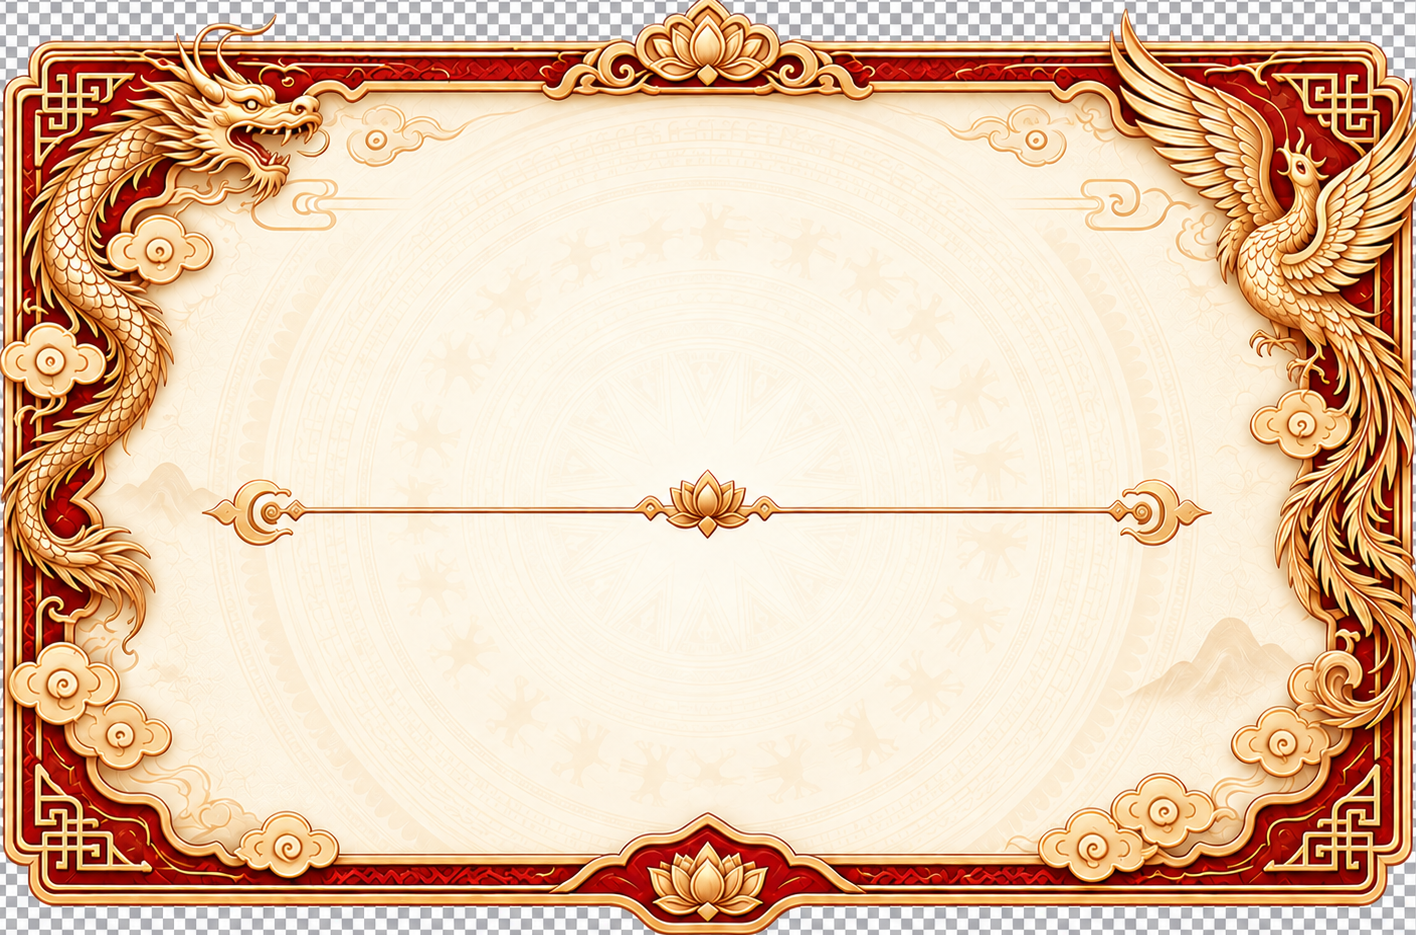
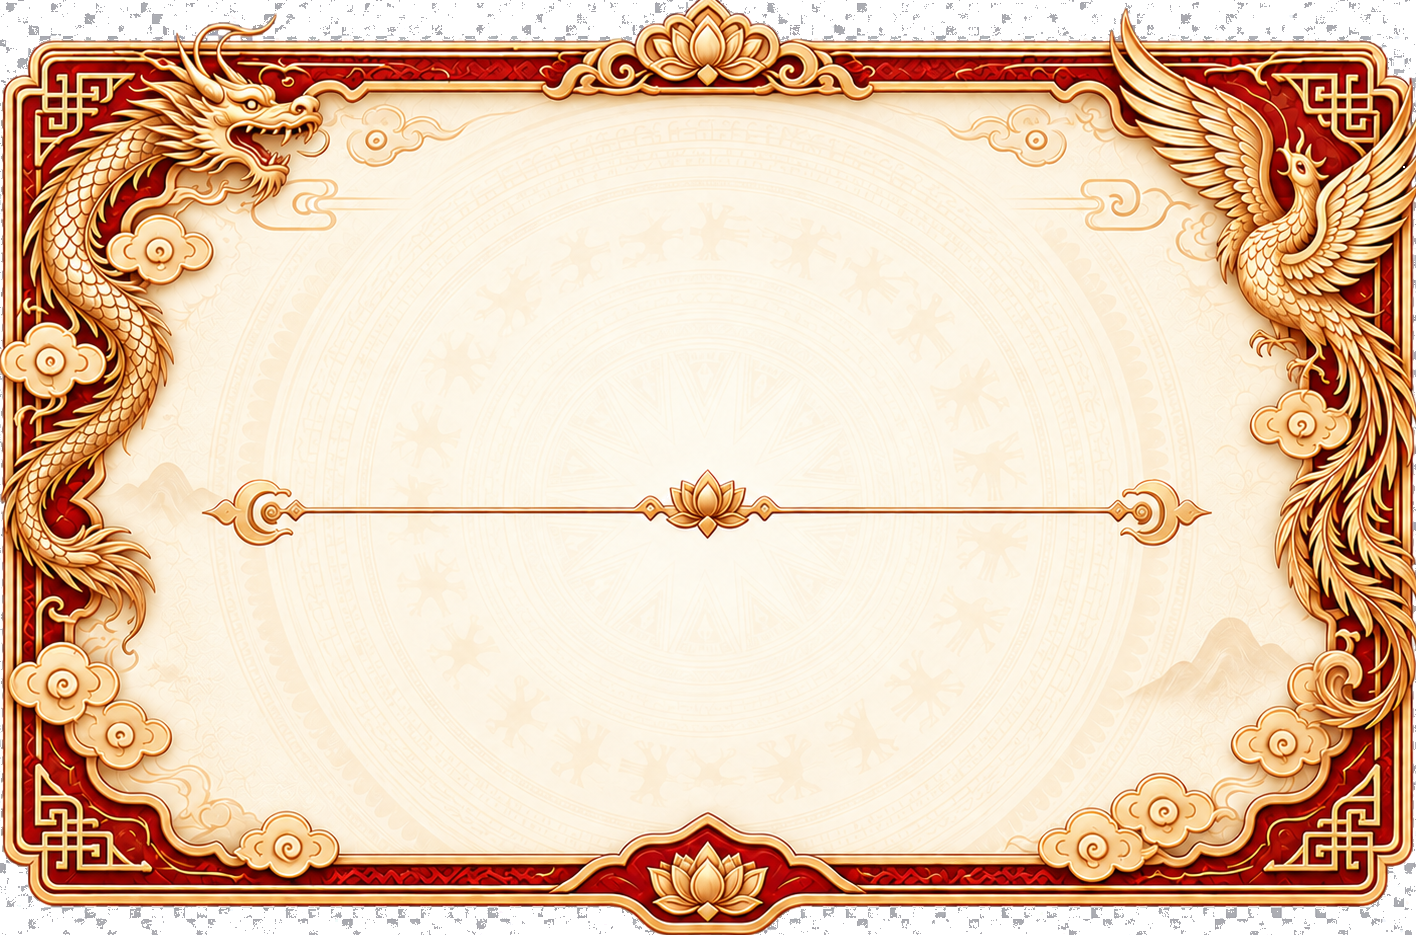
Fix genealogy typography and ornament rendering

diff --git a/app/globals.css b/app/globals.css
@@ -6991,7 +6991,7 @@ main#main .history-article p {
   border: 1px solid #af8050;
   border-radius: 50%;
   color: #895c32;
-  font-family: Georgia, serif;
+  font-family: 'Be Vietnam Pro', sans-serif;
   font-size: 12px;
   font-style: italic;
   font-weight: 700;
@@ -7062,11 +7062,11 @@ main#main .timeline-entry p {
   border-left: 3px solid #9a4a36;
   background: #f7ecdcad;
   color: #71392e;
-  font-family: Georgia, 'Times New Roman', serif;
+  font-family: 'Be Vietnam Pro', sans-serif;
   font-size: 31px;
   font-style: italic;
-  font-weight: 400;
-  line-height: 1.35;
+  font-weight: 500;
+  line-height: 1.45;
 }
 
 .record-links {
@@ -7438,7 +7438,7 @@ main#main .timeline-entry p {
   inset: 0;
   border: 0;
   border-radius: 0;
-  background: url('/root-family-ornament.png') center / 106% 112% no-repeat;
+  background: url('/root-family-ornament.png') center / 100% 100% no-repeat;
   content: '';
   opacity: 1;
   pointer-events: none;
@@ -7485,7 +7485,7 @@ main#main .timeline-entry p {
 }
 
 .root-family-unit .family-member-copy > strong {
-  font-family: Georgia, 'Times New Roman', serif;
+  font-family: 'Be Vietnam Pro', sans-serif;
   font-size: 14px;
   font-weight: 700;
 }
@@ -7506,14 +7506,27 @@ main#main .timeline-entry p {
   background: transparent;
 }
 
+.root-family-unit .family-spouse-entry:first-child {
+  margin-top: 18px;
+}
+
 .tree-fullscreen-icon,
 .member-save-icon {
   display: block;
+  object-fit: contain;
+  transition: transform 160ms ease;
+}
+
+.tree-fullscreen-icon {
+  width: 21px;
+  height: 21px;
+  flex: 0 0 21px;
+}
+
+.member-save-icon {
   width: 19px;
   height: 19px;
   flex: 0 0 19px;
-  object-fit: contain;
-  transition: transform 160ms ease;
 }
 
 @media (hover: hover) {
@@ -7603,7 +7616,7 @@ main#main .timeline-entry p {
   z-index: 0;
   border: 0;
   border-radius: 0;
-  background: url('/root-family-ornament.png') center / 106% 112% no-repeat;
+  background: url('/root-family-ornament.png') center / 100% 100% no-repeat;
   content: '';
   pointer-events: none;
 }
@@ -7674,7 +7687,7 @@ main#main .timeline-entry p {
 }
 
 .home-family-card.is-root .home-family-person strong {
-  font-family: Georgia, 'Times New Roman', serif;
+  font-family: 'Be Vietnam Pro', sans-serif;
   font-size: 14px;
   font-weight: 700;
 }
@@ -7690,6 +7703,7 @@ main#main .timeline-entry p {
 }
 
 .home-family-card.is-root .home-family-spouse {
+  margin-top: 18px;
   border-top-color: transparent;
 }
 
